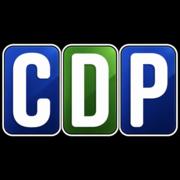
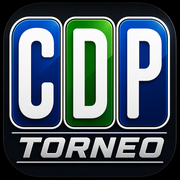
Add files via upload

diff --git a/index.html b/index.html
@@ -1,5 +1,5 @@
 <!DOCTYPE html>
-<!-- CDP Fixture — index.html — 2026-05-04 13:15 ARG — admin: triple filtro LIBRE (matches + tabs + render) -->
+<!-- CDP Fixture — index.html — 2026-05-05 14:10 ARG — meta tags Open Graph + íconos PWA actualizados para dominio torneo.cdpcdelu.ar -->
 <html lang="es">
 <head>
 <meta charset="UTF-8">
@@ -10,20 +10,36 @@
   <meta name="referrer" content="strict-origin-when-cross-origin">
 <meta name="viewport" content="width=device-width, initial-scale=1.0">
 <meta name="theme-color" content="#0f1923">
-<meta name="description" content="Club de Profesionales CDP - Fixture y estadísticas">
+<meta name="description" content="Fixture, resultados y posiciones del torneo del CDP. Seguí el torneo del Club de Profesionales: partidos y posiciones.">
 <meta name="apple-mobile-web-app-capable" content="yes">
 <meta name="apple-mobile-web-app-status-bar-style" content="black-translucent">
-<!-- Favicon inline -->
+<meta name="apple-mobile-web-app-title" content="Torneo CDP">
+
+<!-- Favicons + íconos PWA / iOS -->
 <link rel="icon" type="image/png" sizes="32x32" href="favicon.png">
-<!-- Open Graph — preview en WhatsApp -->
-<meta property="og:title" content="CDP Stats — Club de Profesionales">
-<meta property="og:description" content="Fixture, posiciones, goleadores, disciplina y más del torneo del Club de Profesionales de Concepción del Uruguay.">
-<meta property="og:image" content="https://cdpcedelu.github.io/CDP-Stats/preview.jpg">
+<link rel="icon" type="image/png" sizes="192x192" href="icon-192.png">
+<link rel="icon" type="image/png" sizes="512x512" href="icon-512.png">
+<link rel="apple-touch-icon" sizes="180x180" href="apple-touch-icon.png">
+
+<!-- Open Graph — preview en WhatsApp / Facebook / LinkedIn -->
+<meta property="og:type" content="website">
+<meta property="og:site_name" content="Torneo CDP">
+<meta property="og:title" content="Torneo CDP">
+<meta property="og:description" content="Fixture, resultados y posiciones del torneo del CDP. Seguí el torneo del Club de Profesionales: partidos y posiciones.">
+<meta property="og:image" content="https://torneo.cdpcdelu.ar/preview.png">
 <meta property="og:image:width" content="1200">
 <meta property="og:image:height" content="630">
-<meta property="og:type" content="website">
-<meta property="og:url" content="https://cdpcedelu.github.io/CDP-Fixture/">
-<title>Stats CDP</title>
+<meta property="og:image:alt" content="Torneo CDP">
+<meta property="og:url" content="https://torneo.cdpcdelu.ar/">
+<meta property="og:locale" content="es_AR">
+
+<!-- Twitter Card -->
+<meta name="twitter:card" content="summary_large_image">
+<meta name="twitter:title" content="Torneo CDP">
+<meta name="twitter:description" content="Fixture, resultados y posiciones del torneo del CDP. Seguí el torneo del Club de Profesionales: partidos y posiciones.">
+<meta name="twitter:image" content="https://torneo.cdpcdelu.ar/preview.png">
+
+<title>Torneo CDP</title>
 <link rel="manifest" href="manifest.json">
 <link rel="preconnect" href="https://fonts.googleapis.com">
 <link href="https://fonts.googleapis.com/css2?family=Bebas+Neue&family=Barlow:wght@300;400;500;600;700&family=Barlow+Condensed:wght@400;600;700&display=swap" rel="stylesheet">
